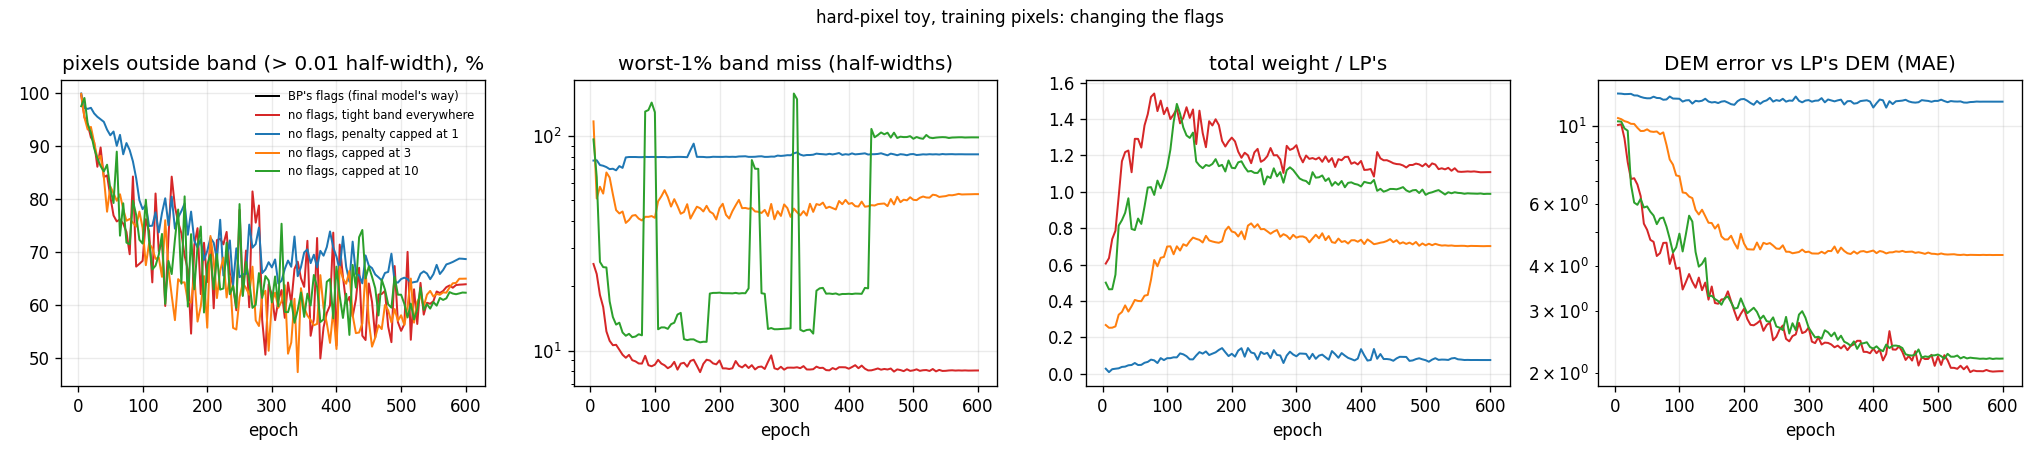
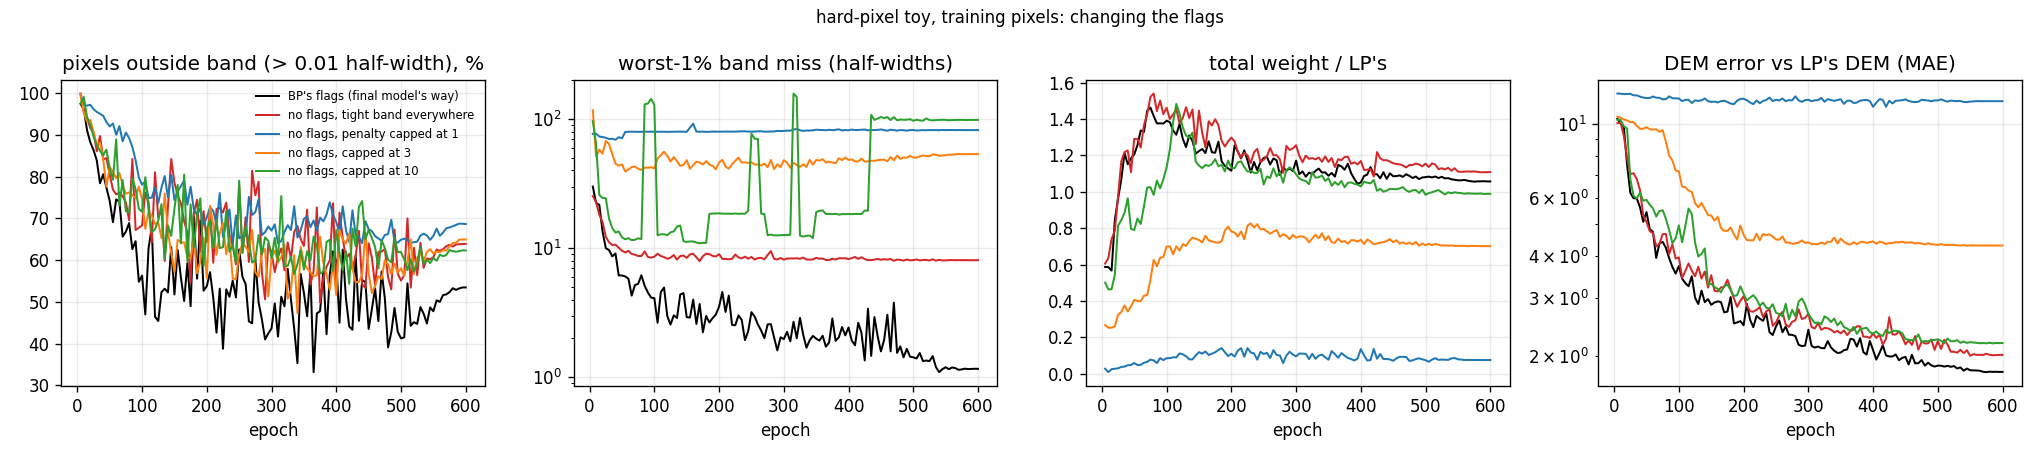
results 30: BP-flags comparison run

diff --git a/results/plots/30_hard_toy_20261120/README.md b/results/plots/30_hard_toy_20261120/README.md
@@ -56,10 +56,12 @@ Per class, training pixels, miss in tight half-widths:
 | capped at 1 half-width | 37.7 / 11.3 (collapsed: weight 0.08x LP) | 54.8 | 19 / 53 |
 | capped at 3 | 42.2 / 4.15 | 96.8 | 28 / 53 |
 | capped at 10 | 45.4 / 2.11 | 97.6 | 17 / 100 |
-| BP's flags (the final model's way) | pending | | |
+| BP's flags (the final model's way; unsolved pixels left out) | 42.3 / 1.73 | 88.1 (DEM MAE vs BP 0.19; no flags 0.48) | not trained on |
 
 - With no flags at all, the network lands 98% of the pixels BP widened inside BP's widened band by
-  itself, and the unsolvable pixels miss by ~6 half-widths (what they need).
+  itself (88% with the flags), and the unsolvable pixels miss by ~6 half-widths (what they need).
+  The cost: on the solvable pixels its DEM is 13% further from the LP's (1.95 vs 1.73), and at the
+  widened pixels its DEM is further from BP's (0.48 vs 0.19).
 - The cap does what it says (past it a pixel exerts no pull), but on a network the abandoned pixels
   drift far (worst 10% miss 50 to 100 half-widths): wild resynthesis. A cap of 1 kills training
   (early on every pixel is past it, so there is no gradient and the output goes to zero); a cap needs
